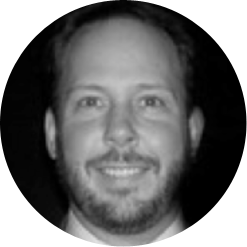
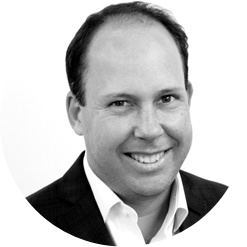
updated fellow photo and removed some text on fellow bios

diff --git a/public/fellows.html b/public/fellows.html
@@ -112,7 +112,7 @@
               <div class="col-md-9 col-md-offset-1">
                  
                            <h3>Aaron Fishman</h3>
-                           <h4>Founder & Director, <a href="http://www.eastbalicashews.com" target="_blank">East Bali Cashews; Denpasar, Bali, Indonesia</a></h4>
+                           <h4>Founder & Director, <a href="http://www.eastbalicashews.com" target="_blank">East Bali Cashews; Denpasar</a></h4>
                            <h6>Focus Area: Social Business</h6>
 
                            <p>Aaron Fishman founded East Bali Cashews after his experience volunteering with an NGO in rural northeast Bali in 2011. While Aaron taught the public health staff about wound care and nutrition, they taught him about cashews, and told him that this impoverished region ships their cashews to India and Vietnam for processing. Within a few months he garnered the support of four local investors and launched East Bali Cashews to process the cashews locally. Aaron believes that community development is best achieved and sustained through empowering people, especially women. So far, the company has produced 500 tons of cashews, providing 210 new jobs and employing an 85% female workforce. EBC recently opened the region’s first preschool, a community early learning center for 60 children adjacent to the factory. He lives in Denpasar, Bali.</p>
@@ -197,7 +197,7 @@
               <div class="col-md-9 col-md-offset-1">
                  
                            <h3>Leticia M. Jáuregui C.</h3>
-                           <h4>Founder & Executive Director, <a href="http://www.crea.org.mx" target="_blank">Crea Comunidades de Emprendedores Sociales; Mexico City, Mexico</a></h4>
+                           <h4>Founder & Executive Director, <a href="http://www.crea.org.mx" target="_blank">Crea Comunidades de Emprendedores Sociales</a></h4>
                            <h6>Focus Area: Women’s economic empowerment</h6>
 
                            <p>Leticia Jauregui founded Crea Comunidades de Emprendedores Sociales (CREA) in 2008 to support Mexican female-led micro enterprises, focusing primarily on the manufacturing sector of food and handmade products and accessories. She has presented her work about remittances and micro entrepreneurial development at the Wharton School of Business, the Institute for Mexicans Abroad, the Organization of American States, and the OECD, among others. Her recognition since then includes the StartingBloc and Opportunity Collaboration Cordes Fellowships in 2010; being named an “Architect of the Future” by the Wazdell Institute in 2009, and the Echoing Green Fellowship in 2008. Leticia has two bachelors’ degrees from ITAM and two masters’ degrees from the University of California Davis. She lives in Mexico City.</p>
@@ -239,7 +239,7 @@
               <div class="col-md-9 col-md-offset-1">
                  
                            <h3>Oliver Libby</h3>
-                           <h4>Chair & Co-Founder, <a href="http://www.resolutionproject.org" target="_blank">The Resolution Project; New York, New York</a></h4>
+                           <h4>Chair & Co-Founder, <a href="http://www.resolutionproject.org" target="_blank">The Resolution Project</a></h4>
                            <h6>Focus Area: Youth Entrepreneurship</h6>
 
                            <p>Oliver Libby co-founded The Resolution Project in 2007, in order to create a unique pathway to action for aspiring young social entrepreneurs. Undergraduates often hear that they are leaders of tomorrow – rather than leaders of today. Resolution identifies young leaders through Social Venture Challenges, empowering them through Resolution Fellowships to implement their ventures and to develop as socially responsible leaders. With Fellows on all six inhabited continents, working in fields such as education, healthcare, human rights, water, energy, and sustainability, Resolution is building a generation of leaders with a lifelong commitment to social responsibility. Oliver is also a co-founder and Managing Director of Hatzimemos / Libby, a global growth catalyst firm focused on energy and advanced technologies. He is a Trustee of the Harvard Club of New York Foundation and lives in New York.</p>
